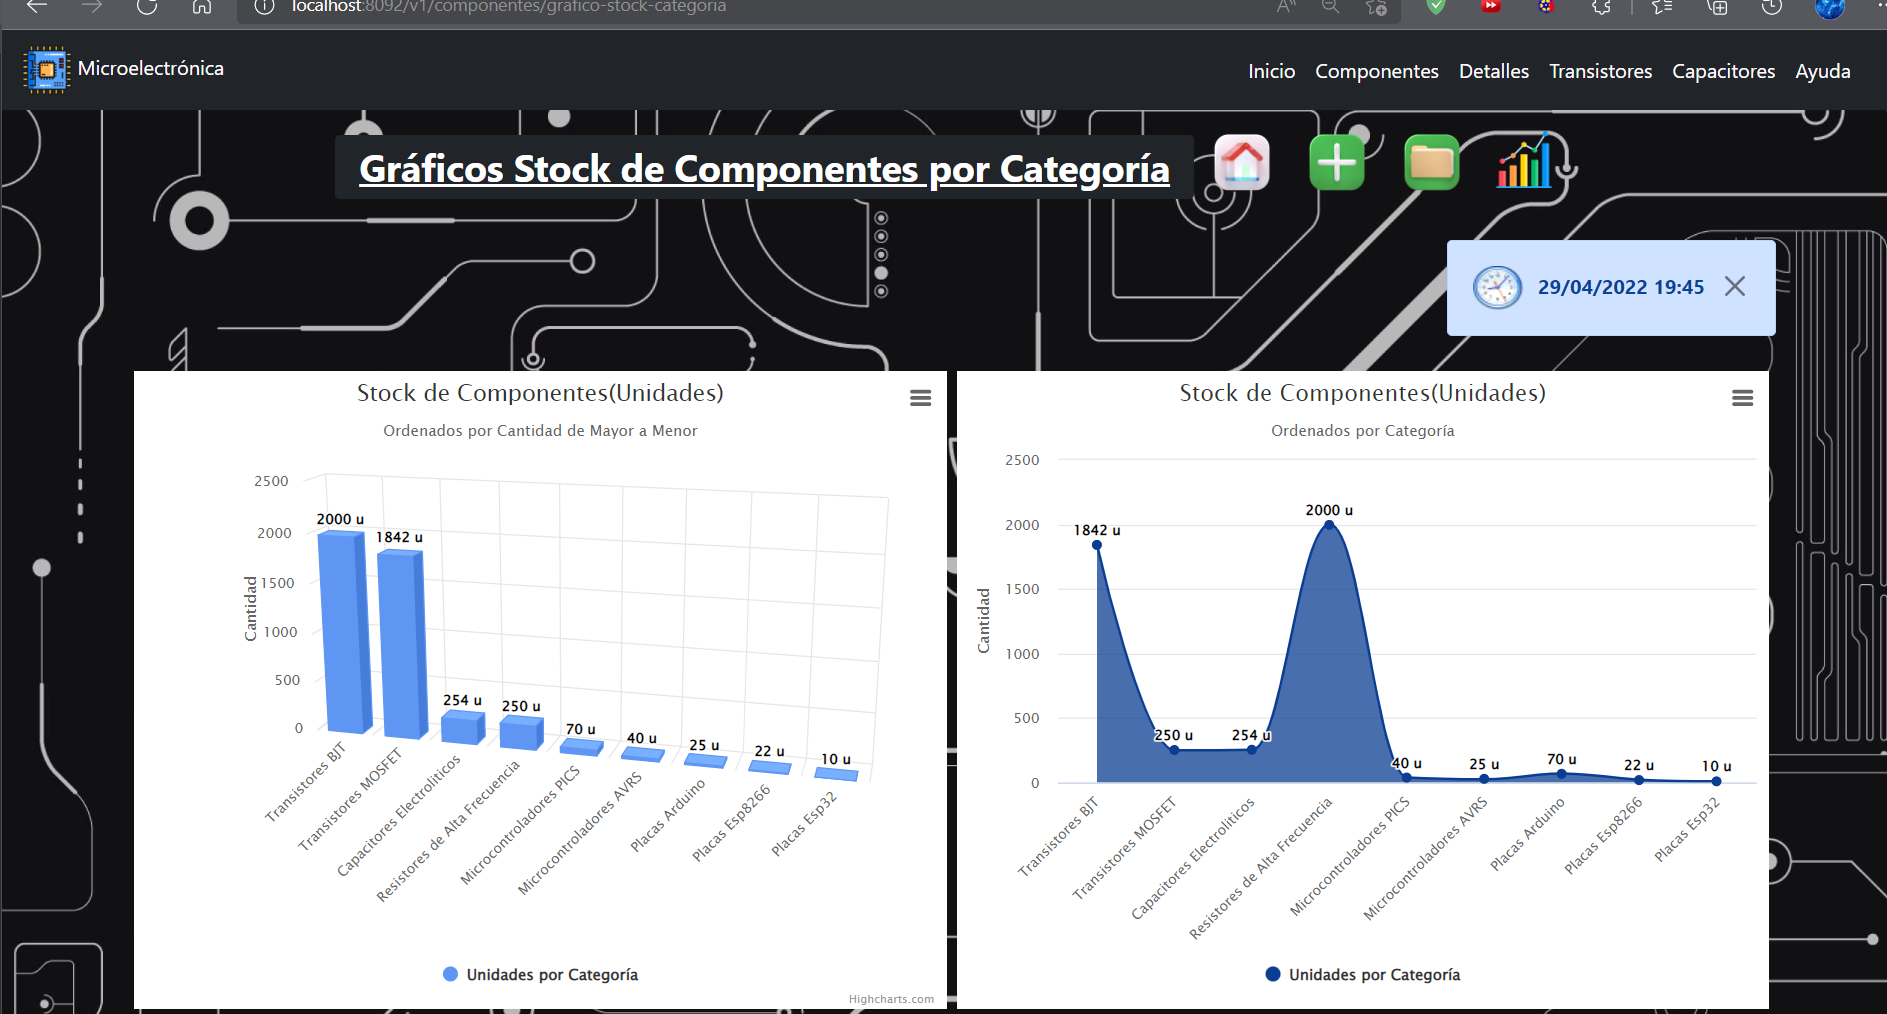
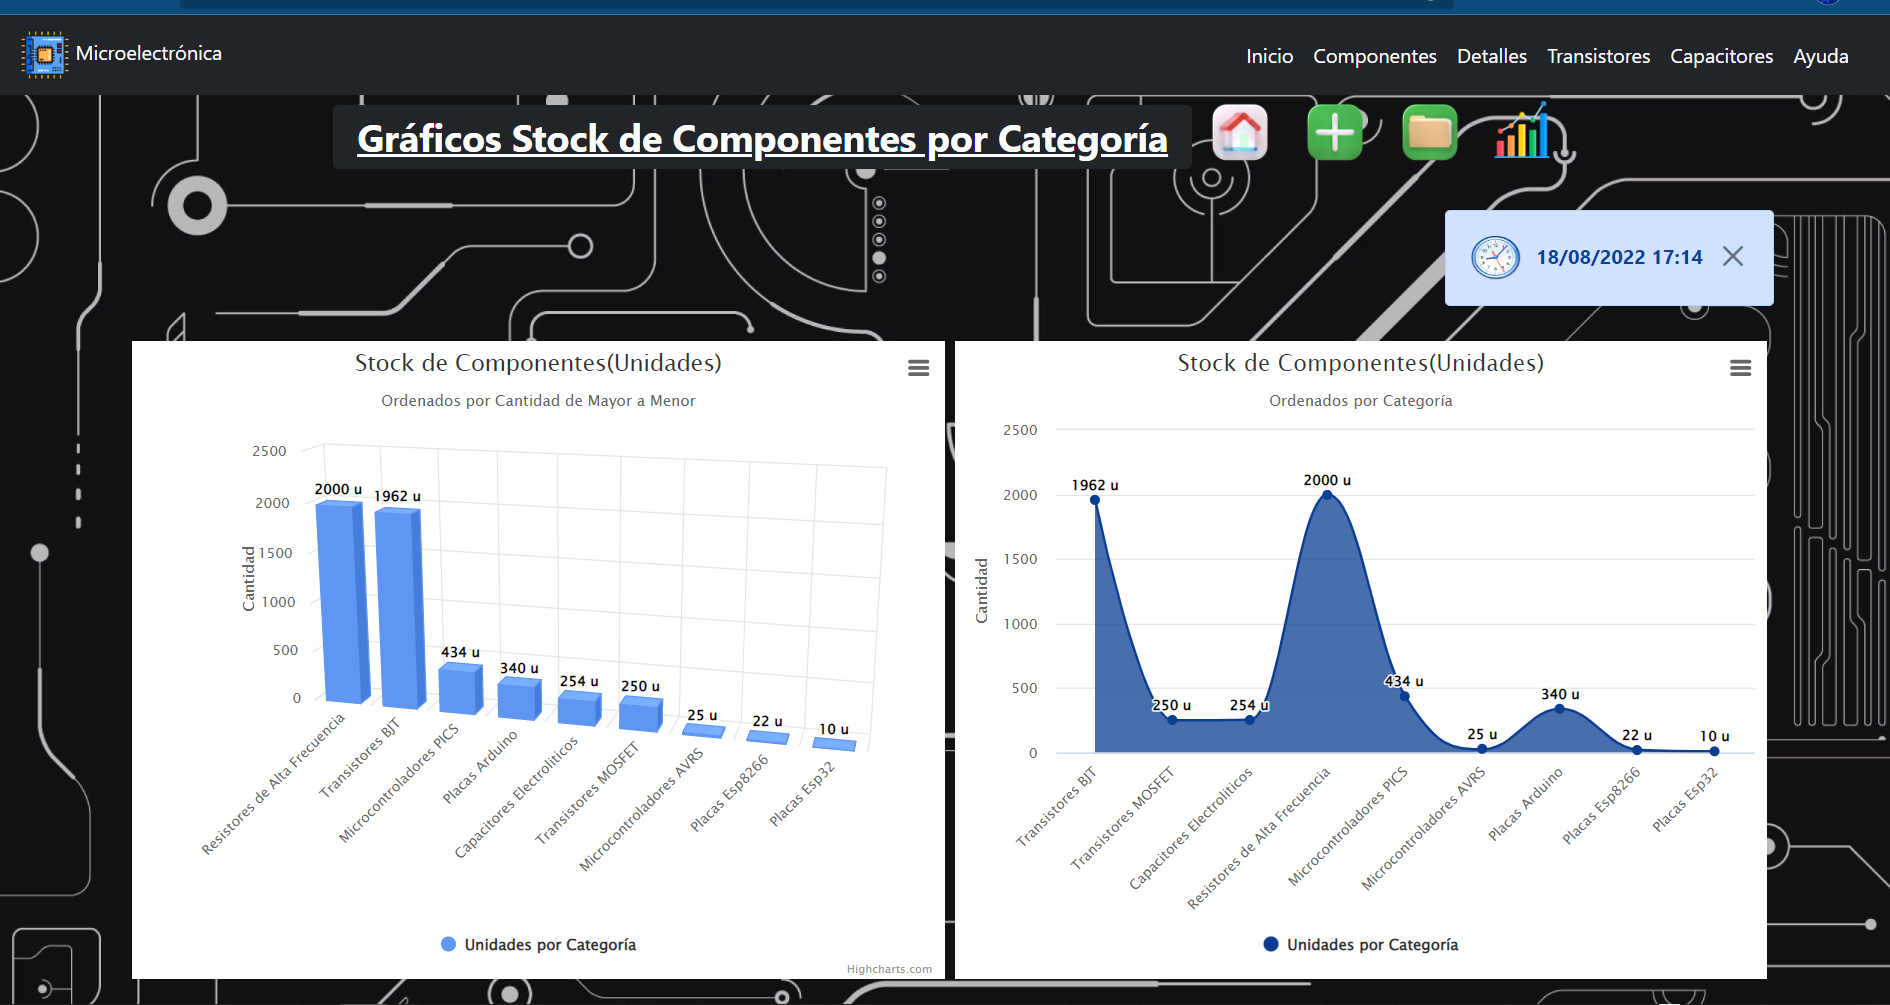
Update Doc

diff --git a/src/main/resources/templates/componentes/comp-graf-stock-fabr.html b/src/main/resources/templates/componentes/comp-graf-stock-fabr.html
@@ -22,18 +22,18 @@
 </head>
 <body>
 
-<!-- NAVBAR FRAGMENT -->
+	<!-- NAVBAR FRAGMENT -->
 	<header th:replace="../static/fragments/navbar/navbar.html::menu"></header>
 	<!-- FIN NAVBAR FRAGMENT -->
-	
-	
+
+
 	<!-- TITULO LISTADO DE COMPONENTES -->
 	<div class="container text-center mt-4 p-1">
 
 		<div class="mt-4 p-3 d-flex justify-content-center ">
 			<h1>
-				<span class="badge bg-dark text-decoration-underline mt-3">Gráficos Stock de Componentes por
-					Fabricantes</span>
+				<span class="badge bg-dark text-decoration-underline mt-3">Gráficos
+					Stock de Componentes por Fabricantes</span>
 			</h1>
 			<!-- BTN-INICIO FRAGMENT -->
 			<div
@@ -56,22 +56,22 @@
 				th:replace="../static/fragments/componentes/btn-grafico-comp/btn-grafico-comp.html::btn">
 			</div>
 			<!-- FIN BTN-GRAFICOS FRAGMENT -->
-			
+
 		</div>
 	</div>
 	<!-- FIN TITULO LISTADO DE COMPONENTES -->
-	
-	
-<!-- FECHA-HORA FRAGMENT -->
+
+
+	<!-- FECHA-HORA FRAGMENT -->
 	<div class="p-1 ms-1 me-5 mt-0">
 
-		
+
 		<div class="d-flex flex-row justify-content-end me-5">
 			<div
 				th:replace="../static/fragments/componentes/fecha-hora/fecha-hora.html::fecha-hora">
 			</div>
 		</div>
-		
+
 	</div>
 	<!-- FIN FECHA-HORA FRAGMENT -->
 
@@ -98,7 +98,7 @@
 		src="https://maxcdn.bootstrapcdn.com/bootstrap/3.3.7/js/bootstrap.min.js"></script>
 	<script src="https://code.highcharts.com/highcharts.js"></script>
 	<script src="https://code.highcharts.com/highcharts-3d.js"></script>
-	
+
 	<script src="https://code.highcharts.com/modules/exporting.js"></script>
 	<script th:inline="javascript">
     $(function(){
@@ -125,9 +125,9 @@
             text: 'Ordenados por Cantidad de Mayor a Menor'
         },
         xAxis: {
-            categories: [[${keySetFabr}]],
-            crosshair: true
-        
+            categories: [[${keySetFabrOrderDesc}]],
+            crosshair: true,
+      
         },
         yAxis: {
         	min:0,
@@ -136,6 +136,7 @@
                 text: 'Cantidad',
                 
             }
+        
         },
         tooltip: {
             headerFormat: '<span style="font-size:20px">{point.key}</span><table>',
@@ -161,10 +162,11 @@
         },
         series: [{
             name: 'Unidades por Fabricante',
-            dataSorting:{
+          
+            dataLabels:{
             	enabled:true
             },
-            data: [[${valuesFabr}]],
+            data: [[${valuesFabrOrderDesc}]],
             color: '#F96C6C'
            
         }]
@@ -172,7 +174,7 @@
     });
 </script>
 
-<!-- FIN SCRIPT GRAFICO STOCK CATEG -->
+	<!-- FIN SCRIPT GRAFICO STOCK CATEG -->
 
 
 	<!-- SCRIPT GRAFICO STOCK CATEG -->
@@ -183,7 +185,7 @@
 		src="https://maxcdn.bootstrapcdn.com/bootstrap/3.3.7/js/bootstrap.min.js"></script>
 	<script src="https://code.highcharts.com/highcharts.js"></script>
 	<script src="https://code.highcharts.com/highcharts-3d.js"></script>
-	
+
 	<script src="https://code.highcharts.com/modules/exporting.js"></script>
 	<script th:inline="javascript">
     $(function(){
@@ -240,7 +242,6 @@
         },
     series: [{
             name: 'Unidades por Fabricante ',
-            
             data: [[${valuesFabr}]],
             color: '#DC1F1F'
            
@@ -249,7 +250,7 @@
     });
 </script>
 
-<!-- FIN SCRIPT GRAFICO STOCK CATEG -->
+	<!-- FIN SCRIPT GRAFICO STOCK CATEG -->
 
 
 
@@ -258,7 +259,7 @@
 
 
 
-<!-- FOOTER FRAGMENT -->
+	<!-- FOOTER FRAGMENT -->
 	<footer th:replace="../static/fragments/footer/footer.html::pie-pagina"></footer>
 	<!-- FIN FOOTER FRAGMENT -->
 

diff --git a/src/main/resources/templates/componentes/comp-graf-stock-categ.html b/src/main/resources/templates/componentes/comp-graf-stock-categ.html
@@ -125,7 +125,7 @@
             text: 'Ordenados por Cantidad de Mayor a Menor'
         },
         xAxis: {
-            categories: [[${keySetCateg}]],
+            categories: [[${keySetCategOrderDesc}]],
             crosshair: true
         
         },
@@ -161,10 +161,10 @@
         },
         series: [{
             name: 'Unidades por Categoría',
-            dataSorting:{
+            dataLabels:{
             	enabled:true
             },
-            data: [[${valuesCateg}]],
+            data: [[${valuesCategOrderDesc}]],
             color: '#5F96F3'
            
         }]
@@ -241,7 +241,6 @@
         },
     series: [{
             name: 'Unidades por Categoría ',
-            
             data: [[${valuesCateg}]],
              color: '#0B3E93'
            

diff --git a/src/main/resources/templates/componentes/comp-editar-form.html b/src/main/resources/templates/componentes/comp-editar-form.html
@@ -97,9 +97,10 @@
 						<div class="form-group m-3 ">
 							<label for="imagen">
 								<h5>Imagen</h5> <!-- PATTERN COMPLETO URL -->
-							</label> <input class="form-control" type="url" id="imagen"
+							</label> <input class="form-control" id="imagen"
 								placeholder="Link Imagen" required
-								pattern="^(http(s)?:\/\/)+[\w\-\._~:\/?#[\]@!\$&'\(\)\*\+,;=.]+$"
+								pattern="^(http(s)?:\/\/)+[\w\-\._~:\/?#[\]@!\$&%'\(\)\*\+,;=.]+$"
+								minlength="3" maxlength="800"
 								title=" SOLO URL" th:field="*{imagen}">
 
 						</div>

diff --git a/src/main/java/com/gestion/microelectronica/controllers/ComponenteController.java b/src/main/java/com/gestion/microelectronica/controllers/ComponenteController.java
@@ -1,7 +1,10 @@
 package com.gestion.microelectronica.controllers;
 
+import java.util.Comparator;
 import java.util.LinkedHashMap;
 import java.util.Map;
+import java.util.TreeMap;
+import java.util.stream.Collectors;
 
 import org.springframework.data.domain.Page;
 import org.springframework.data.domain.PageRequest;
@@ -603,7 +606,7 @@ public class ComponenteController {
 
 		// --------- SET DE STOCK POR CATEGORIA ------------
 
-		Map<String, Integer> data = new LinkedHashMap();
+		Map<String, Integer> data = new LinkedHashMap<String, Integer>();
 
 		data.put(transBjt, stockTransBjt);
 		data.put(transMosfet, stockTransMosfet);
@@ -614,9 +617,24 @@ public class ComponenteController {
 		data.put(placasArd, stockPlacasArd);
 		data.put(placasEsp8266, stockPlacasEsp8266);
 		data.put(placasEsp32, stockPlacasEsp32);
+		
+		
+		
+		Map<String, Integer> dataOrderDesc = 
+				data
+				.entrySet()
+				.stream()
+				.sorted(Map.Entry.comparingByValue(Comparator.reverseOrder()))
+				.collect(Collectors.toMap(Map.Entry::getKey, Map.Entry::getValue, (e1, e2) ->e1, LinkedHashMap::new));
+				
+				
 
 		mav.addObject("keySetCateg", data.keySet());
 		mav.addObject("valuesCateg", data.values());
+		
+		
+		mav.addObject("keySetCategOrderDesc", dataOrderDesc.keySet());
+		mav.addObject("valuesCategOrderDesc", dataOrderDesc.values());
 
 		mav.setViewName("componentes/comp-graf-stock-categ");
 
@@ -675,7 +693,7 @@ public class ComponenteController {
 
 		// --------- SET DE STOCK POR FABRICANTE ------------
 
-		Map<String, Integer> data02 = new LinkedHashMap();
+		Map<String, Integer> data02 = new LinkedHashMap<String, Integer>();
 
 		data02.put(vish, stockVishay);
 		data02.put(eln, stockElna);
@@ -695,9 +713,23 @@ public class ComponenteController {
 		data02.put(renElec, stockRenElec);
 		data02.put(centSem, stockCentSem);
 		data02.put(inchSem, stockInchSem);
+		
+		
+		 
+		Map<String, Integer> data02OrderDesc = 
+		data02
+		.entrySet()
+		.stream()
+		.sorted(Map.Entry.comparingByValue(Comparator.reverseOrder()))
+		.collect(Collectors.toMap(Map.Entry::getKey, Map.Entry::getValue, (e1, e2) ->e1, LinkedHashMap::new));
+		
+		
 
 		mav.addObject("keySetFabr", data02.keySet());
 		mav.addObject("valuesFabr", data02.values());
+		
+		mav.addObject("keySetFabrOrderDesc", data02OrderDesc.keySet());
+		mav.addObject("valuesFabrOrderDesc", data02OrderDesc.values());
 
 		mav.setViewName("componentes/comp-graf-stock-fabr");
 

diff --git a/src/main/java/com/gestion/microelectronica/repositories/I_ComponenteRepository.java b/src/main/java/com/gestion/microelectronica/repositories/I_ComponenteRepository.java
@@ -1,7 +1,6 @@
 package com.gestion.microelectronica.repositories;
 
 import java.io.Serializable;
-import java.util.List;
 
 import org.springframework.data.domain.Page;
 import org.springframework.data.domain.Pageable;
